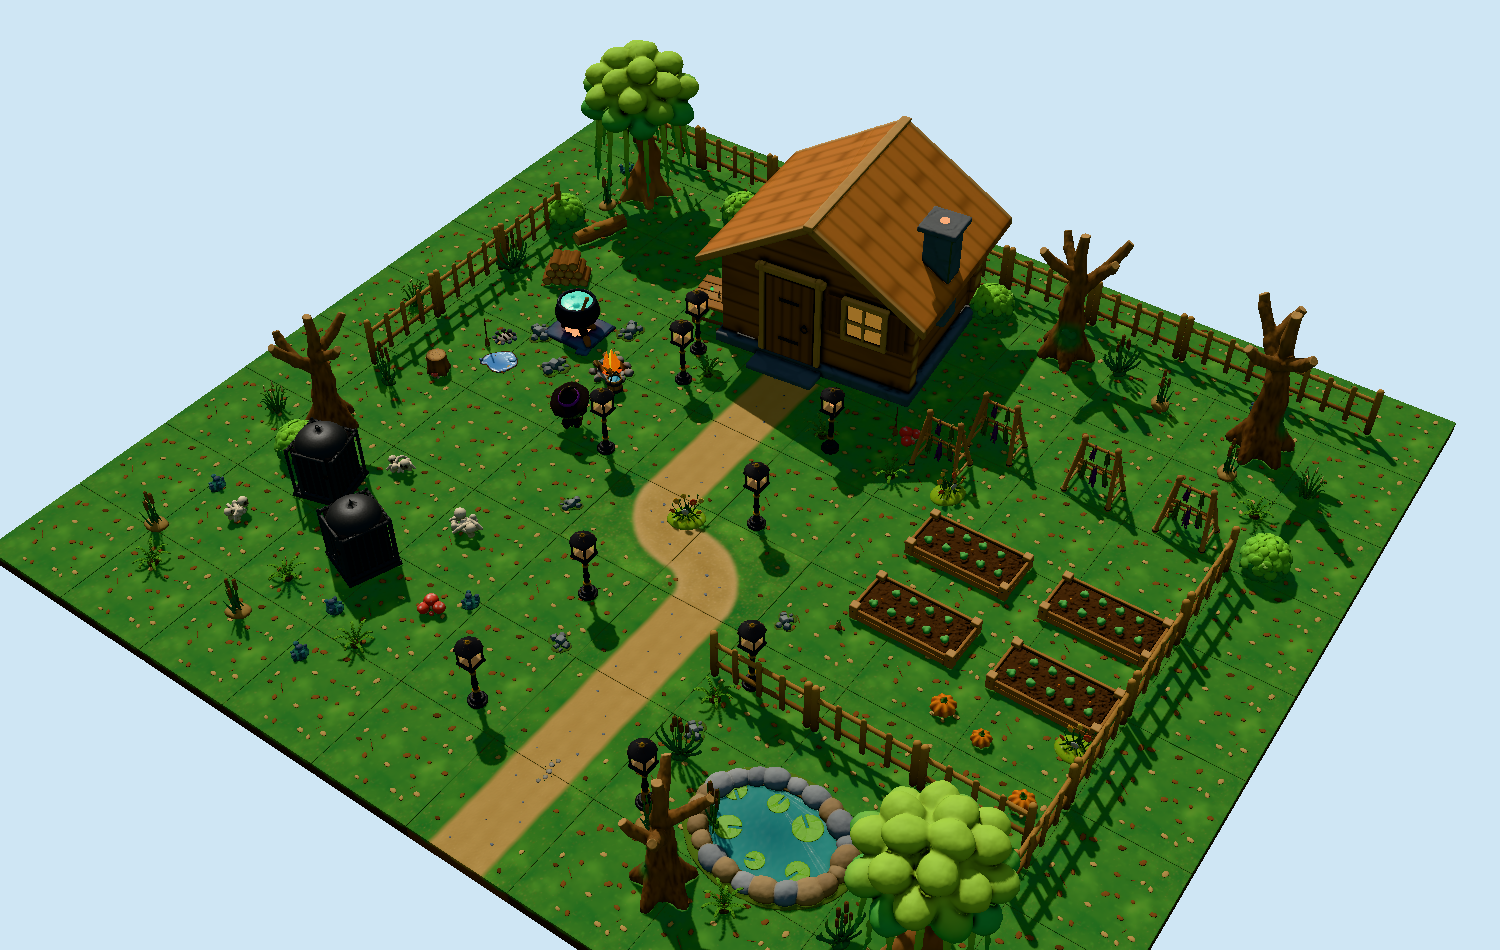
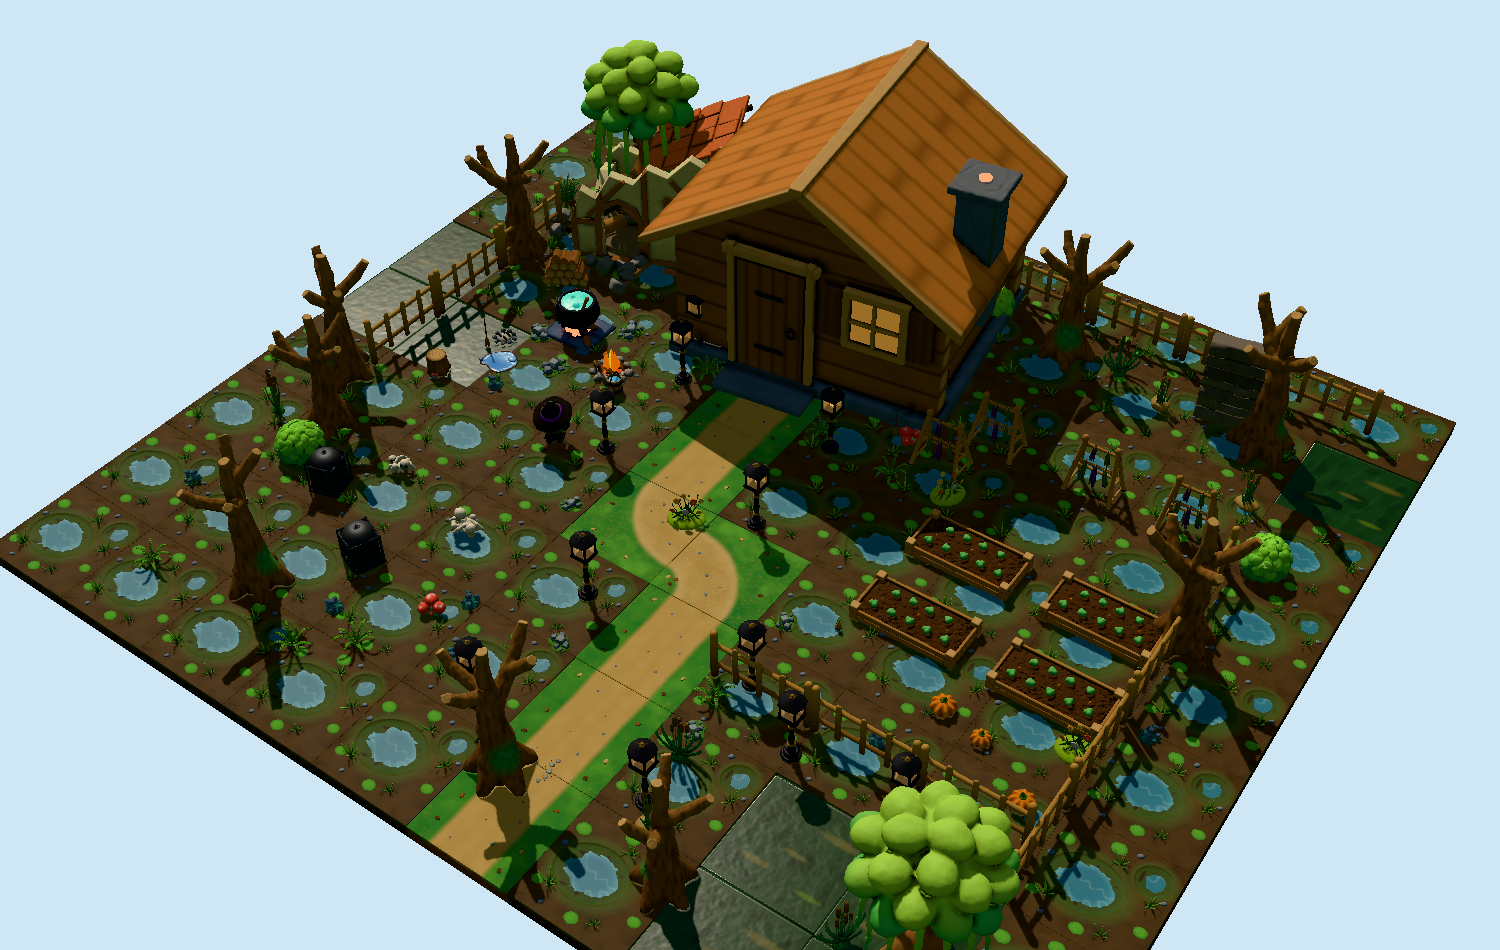
feat(maps): witch-hut map at 7.0

diff --git a/scenes/maps/witch-hut.ts b/scenes/maps/witch-hut.ts
@@ -2,97 +2,101 @@
 import type { Place } from '../chibi-quest.js';
 export function places(): Place[] {
   return [
-  { asset: 'forest-ground', at: [-9, 0, -8] },
-  { asset: 'forest-ground', at: [-9, 0, -6] },
-  { asset: 'forest-ground', at: [-9, 0, -4] },
-  { asset: 'forest-ground', at: [-9, 0, -2] },
-  { asset: 'forest-ground', at: [-9, 0, 0] },
-  { asset: 'forest-ground', at: [-9, 0, 2] },
-  { asset: 'forest-ground', at: [-9, 0, 4] },
-  { asset: 'forest-ground', at: [-9, 0, 6] },
-  { asset: 'forest-ground', at: [-9, 0, 8] },
-  { asset: 'forest-ground', at: [-7, 0, -8] },
-  { asset: 'forest-ground', at: [-7, 0, -6] },
-  { asset: 'forest-ground', at: [-7, 0, -4] },
-  { asset: 'forest-ground', at: [-7, 0, -2] },
-  { asset: 'forest-ground', at: [-7, 0, 0] },
-  { asset: 'forest-ground', at: [-7, 0, 2] },
-  { asset: 'forest-ground', at: [-7, 0, 4] },
-  { asset: 'forest-ground', at: [-7, 0, 6] },
-  { asset: 'forest-ground', at: [-7, 0, 8] },
-  { asset: 'forest-ground', at: [-5, 0, -8] },
-  { asset: 'forest-ground', at: [-5, 0, -6] },
-  { asset: 'forest-ground', at: [-5, 0, -4] },
-  { asset: 'forest-ground', at: [-5, 0, -2] },
-  { asset: 'forest-ground', at: [-5, 0, 0] },
-  { asset: 'forest-ground', at: [-5, 0, 2] },
-  { asset: 'forest-ground', at: [-5, 0, 4] },
-  { asset: 'forest-ground', at: [-5, 0, 6] },
-  { asset: 'forest-ground', at: [-5, 0, 8] },
-  { asset: 'forest-ground', at: [-3, 0, -8] },
-  { asset: 'forest-ground', at: [-3, 0, -6] },
-  { asset: 'forest-ground', at: [-3, 0, -4] },
-  { asset: 'forest-ground', at: [-3, 0, -2] },
-  { asset: 'forest-ground', at: [-3, 0, 0] },
-  { asset: 'forest-ground', at: [-3, 0, 2] },
-  { asset: 'forest-ground', at: [-3, 0, 4] },
-  { asset: 'forest-ground', at: [-3, 0, 6] },
-  { asset: 'forest-ground', at: [-3, 0, 8] },
-  { asset: 'forest-ground', at: [-1, 0, -8] },
-  { asset: 'forest-ground', at: [-1, 0, -6] },
-  { asset: 'forest-ground', at: [-1, 0, -4] },
+  { asset: 'marsh-ground', at: [-9, 0, -8] },
+  { asset: 'marsh-ground', at: [-9, 0, -6] },
+  { asset: 'marsh-ground', at: [-9, 0, -4] },
+  { asset: 'sewer-water', at: [-9, 0, -2] },
+  { asset: 'sewer-water', at: [-9, 0, 0] },
+  { asset: 'marsh-ground', at: [-9, 0, 2] },
+  { asset: 'marsh-ground', at: [-9, 0, 4] },
+  { asset: 'marsh-ground', at: [-9, 0, 6] },
+  { asset: 'marsh-ground', at: [-9, 0, 8] },
+  { asset: 'marsh-ground', at: [-7, 0, -8] },
+  { asset: 'marsh-ground', at: [-7, 0, -6] },
+  { asset: 'marsh-ground', at: [-7, 0, -4] },
+  { asset: 'marsh-ground', at: [-7, 0, -2] },
+  { asset: 'sewer-water', at: [-7, 0, 0] },
+  { asset: 'marsh-ground', at: [-7, 0, 2] },
+  { asset: 'marsh-ground', at: [-7, 0, 4] },
+  { asset: 'marsh-ground', at: [-7, 0, 6] },
+  { asset: 'marsh-ground', at: [-7, 0, 8] },
+  { asset: 'marsh-ground', at: [-5, 0, -8] },
+  { asset: 'marsh-ground', at: [-5, 0, -6] },
+  { asset: 'marsh-ground', at: [-5, 0, -4] },
+  { asset: 'marsh-ground', at: [-5, 0, -2] },
+  { asset: 'marsh-ground', at: [-5, 0, 0] },
+  { asset: 'marsh-ground', at: [-5, 0, 2] },
+  { asset: 'marsh-ground', at: [-5, 0, 4] },
+  { asset: 'marsh-ground', at: [-5, 0, 6] },
+  { asset: 'marsh-ground', at: [-5, 0, 8] },
+  { asset: 'marsh-ground', at: [-3, 0, -8] },
+  { asset: 'marsh-ground', at: [-3, 0, -6] },
+  { asset: 'marsh-ground', at: [-3, 0, -4] },
+  { asset: 'marsh-ground', at: [-3, 0, -2] },
+  { asset: 'marsh-ground', at: [-3, 0, 0] },
+  { asset: 'marsh-ground', at: [-3, 0, 2] },
+  { asset: 'marsh-ground', at: [-3, 0, 4] },
+  { asset: 'marsh-ground', at: [-3, 0, 6] },
+  { asset: 'marsh-ground', at: [-3, 0, 8] },
+  { asset: 'marsh-ground', at: [-1, 0, -8] },
+  { asset: 'marsh-ground', at: [-1, 0, -6] },
+  { asset: 'marsh-ground', at: [-1, 0, -4] },
   { asset: 'footpath-straight', at: [-1, 0, -2] },
   { asset: 'footpath-straight', at: [-1, 0, 0] },
   { asset: 'footpath-corner', at: [-1, 0, 2] },
-  { asset: 'forest-ground', at: [-1, 0, 4] },
-  { asset: 'forest-ground', at: [-1, 0, 6] },
-  { asset: 'forest-ground', at: [-1, 0, 8] },
-  { asset: 'forest-ground', at: [1, 0, -8] },
-  { asset: 'forest-ground', at: [1, 0, -6] },
-  { asset: 'forest-ground', at: [1, 0, -4] },
-  { asset: 'forest-ground', at: [1, 0, -2] },
-  { asset: 'forest-ground', at: [1, 0, 0] },
+  { asset: 'marsh-ground', at: [-1, 0, 4] },
+  { asset: 'marsh-ground', at: [-1, 0, 6] },
+  { asset: 'marsh-ground', at: [-1, 0, 8] },
+  { asset: 'marsh-ground', at: [1, 0, -8] },
+  { asset: 'marsh-ground', at: [1, 0, -6] },
+  { asset: 'marsh-ground', at: [1, 0, -4] },
+  { asset: 'marsh-ground', at: [1, 0, -2] },
+  { asset: 'marsh-ground', at: [1, 0, 0] },
   { asset: 'footpath-corner', at: [1, 0, 2], yaw: 180 },
   { asset: 'footpath-straight', at: [1, 0, 4] },
   { asset: 'footpath-straight', at: [1, 0, 6] },
   { asset: 'footpath-straight', at: [1, 0, 8] },
-  { asset: 'forest-ground', at: [3, 0, -8] },
-  { asset: 'forest-ground', at: [3, 0, -6] },
-  { asset: 'forest-ground', at: [3, 0, -4] },
-  { asset: 'forest-ground', at: [3, 0, -2] },
-  { asset: 'forest-ground', at: [3, 0, 0] },
-  { asset: 'forest-ground', at: [3, 0, 2] },
-  { asset: 'forest-ground', at: [3, 0, 4] },
-  { asset: 'forest-ground', at: [3, 0, 6] },
-  { asset: 'forest-ground', at: [3, 0, 8] },
-  { asset: 'forest-ground', at: [5, 0, -8] },
-  { asset: 'forest-ground', at: [5, 0, -6] },
-  { asset: 'forest-ground', at: [5, 0, -4] },
-  { asset: 'forest-ground', at: [5, 0, -2] },
-  { asset: 'forest-ground', at: [5, 0, 0] },
-  { asset: 'forest-ground', at: [5, 0, 2] },
-  { asset: 'forest-ground', at: [5, 0, 4] },
-  { asset: 'forest-ground', at: [5, 0, 6] },
-  { asset: 'forest-ground', at: [5, 0, 8] },
-  { asset: 'forest-ground', at: [7, 0, -8] },
-  { asset: 'forest-ground', at: [7, 0, -6] },
-  { asset: 'forest-ground', at: [7, 0, -4] },
-  { asset: 'forest-ground', at: [7, 0, -2] },
-  { asset: 'forest-ground', at: [7, 0, 0] },
-  { asset: 'forest-ground', at: [7, 0, 2] },
-  { asset: 'forest-ground', at: [7, 0, 4] },
-  { asset: 'forest-ground', at: [7, 0, 6] },
-  { asset: 'forest-ground', at: [7, 0, 8] },
-  { asset: 'forest-ground', at: [9, 0, -8] },
-  { asset: 'forest-ground', at: [9, 0, -6] },
-  { asset: 'forest-ground', at: [9, 0, -4] },
-  { asset: 'forest-ground', at: [9, 0, -2] },
-  { asset: 'forest-ground', at: [9, 0, 0] },
-  { asset: 'forest-ground', at: [9, 0, 2] },
-  { asset: 'forest-ground', at: [9, 0, 4] },
-  { asset: 'forest-ground', at: [9, 0, 6] },
-  { asset: 'forest-ground', at: [9, 0, 8] },
-  { asset: 'cabin', at: [-1, 0, -5], yaw: 6, scale: 1.3 },
+  { asset: 'marsh-ground', at: [3, 0, -8] },
+  { asset: 'marsh-ground', at: [3, 0, -6] },
+  { asset: 'marsh-ground', at: [3, 0, -4] },
+  { asset: 'marsh-ground', at: [3, 0, -2] },
+  { asset: 'marsh-ground', at: [3, 0, 0] },
+  { asset: 'marsh-ground', at: [3, 0, 2] },
+  { asset: 'marsh-ground', at: [3, 0, 4] },
+  { asset: 'marsh-ground', at: [3, 0, 6] },
+  { asset: 'marsh-ground', at: [3, 0, 8] },
+  { asset: 'marsh-ground', at: [5, 0, -8] },
+  { asset: 'marsh-ground', at: [5, 0, -6] },
+  { asset: 'marsh-ground', at: [5, 0, -4] },
+  { asset: 'marsh-ground', at: [5, 0, -2] },
+  { asset: 'marsh-ground', at: [5, 0, 0] },
+  { asset: 'marsh-ground', at: [5, 0, 2] },
+  { asset: 'marsh-ground', at: [5, 0, 4] },
+  { asset: 'sewer-water', at: [5, 0, 6] },
+  { asset: 'sewer-water', at: [5, 0, 8] },
+  { asset: 'marsh-ground', at: [7, 0, -8] },
+  { asset: 'marsh-ground', at: [7, 0, -6] },
+  { asset: 'marsh-ground', at: [7, 0, -4] },
+  { asset: 'marsh-ground', at: [7, 0, -2] },
+  { asset: 'marsh-ground', at: [7, 0, 0] },
+  { asset: 'marsh-ground', at: [7, 0, 2] },
+  { asset: 'marsh-ground', at: [7, 0, 4] },
+  { asset: 'sewer-water', at: [7, 0, 6] },
+  { asset: 'sewer-water', at: [7, 0, 8] },
+  { asset: 'marsh-ground', at: [9, 0, -8] },
+  { asset: 'sewer-water', at: [9, 0, -6] },
+  { asset: 'marsh-ground', at: [9, 0, -4] },
+  { asset: 'marsh-ground', at: [9, 0, -2] },
+  { asset: 'marsh-ground', at: [9, 0, 0] },
+  { asset: 'marsh-ground', at: [9, 0, 2] },
+  { asset: 'marsh-ground', at: [9, 0, 4] },
+  { asset: 'marsh-ground', at: [9, 0, 6] },
+  { asset: 'marsh-ground', at: [9, 0, 8] },
+  { asset: 'cabin', at: [-1, 0, -5], yaw: 8, scale: 1.75 },
+  { asset: 'ruined-house', at: [-6.2, 0, -5.6], yaw: 25, scale: 0.8 },
+  { asset: 'rock-wall', at: [6.5, 0, -6.6], yaw: 10, scale: 0.7 },
+  { asset: 'hanging-cage', at: [1.8, 0, -3.6], scale: 0.8 },
+  { asset: 'bone-pile', at: [1.4, 0, -3], yaw: 30, scale: 0.8 },
   { asset: 'witch-broom', at: [1.5, 0, -2.6], yaw: 20 },
   { asset: 'lantern', at: [-3, 0, -2.5] },
   { asset: 'herb-drying-rack', at: [2.6, 0, -2.4] },
@@ -113,7 +117,7 @@ export function places(): Place[] {
   { asset: 'firewood', at: [-6.6, 0, -2.8], yaw: 30 },
   { asset: 'bucket', at: [-3.6, 0, -0.6], yaw: 100 },
   { asset: 'barrel', at: [-2.5, 0, -3.9], yaw: 20 },
-  { asset: 'witch', at: [-3.6, 0, 0.7], yaw: 220 },
+  { asset: 'witch', at: [-3.6, 0, 1.2], yaw: 220 },
   { asset: 'witch-broom', at: [-6.5, 0, -0.2], yaw: 80 },
   { asset: 'stump', at: [-6.8, 0, 0.9] },
   { asset: 'log', at: [-7, 0, -4.4], yaw: 70 },
@@ -137,8 +141,8 @@ export function places(): Place[] {
   { asset: 'fence', at: [7.95, 0, 0], yaw: 90 },
   { asset: 'fence', at: [7.95, 0, 2], yaw: 90 },
   { asset: 'fence', at: [7.95, 0, 3.94], yaw: 90 },
-  { asset: 'cage', at: [-6.2, 0, 4.4], yaw: 15 },
-  { asset: 'cage', at: [-4.4, 0, 5.4], yaw: 340 },
+  { asset: 'cage', at: [-6.2, 0, 4.4], yaw: 15, scale: 0.6 },
+  { asset: 'cage', at: [-4.4, 0, 5.4], yaw: 340, scale: 0.6 },
   { asset: 'bone-pile', at: [-5.4, 0, 3.4], yaw: 40 },
   { asset: 'bone-pile', at: [-3.4, 0, 3.9], yaw: 200, scale: 1.2 },
   { asset: 'bone-pile', at: [-7, 0, 5.9], yaw: 120 },
@@ -154,7 +158,8 @@ export function places(): Place[] {
   { asset: 'lantern', at: [0.7, 0, 0.8] },
   { asset: 'lantern', at: [-2.7, 0, -1.6] },
   { asset: 'lantern', at: [0.7, 0, -1.6] },
-  { asset: 'pond', at: [4.6, 0, 6], scale: 1.1 },
+  { asset: 'lantern', at: [4, 0, 4.6] },
+  { asset: 'lantern', at: [6, 0, 4.6] },
   { asset: 'reeds', at: [3, 0, 6.9], yaw: 20 },
   { asset: 'reeds', at: [6.2, 0, 5.2], yaw: 100 },
   { asset: 'cattails', at: [6.4, 0, 6.9], yaw: 60 },
@@ -166,6 +171,16 @@ export function places(): Place[] {
   { asset: 'dead-tree', at: [7.2, 0, -6.2], yaw: 300, scale: 1.1 },
   { asset: 'dead-tree', at: [3.8, 0, 7.6], yaw: 100, scale: 0.9 },
   { asset: 'dead-tree', at: [-2, 0, -6.7], yaw: 30, scale: 0.8 },
+  { asset: 'dead-tree', at: [-8, 0, -3], yaw: 40, scale: 1 },
+  { asset: 'dead-tree', at: [-8.2, 0, 2], yaw: 130, scale: 1 },
+  { asset: 'dead-tree', at: [0.5, 0, 7.4], yaw: 250, scale: 1 },
+  { asset: 'dead-tree', at: [8, 0, -1], yaw: 10, scale: 1 },
+  { asset: 'dead-tree', at: [-5.5, 0, 6.8], yaw: 300, scale: 1 },
+  { asset: 'mushroom-cluster', at: [-5.6, 0, 0.6], yaw: -224 },
+  { asset: 'mushroom-cluster', at: [-1.6, 0, 6.2], yaw: -64 },
+  { asset: 'mushroom-cluster', at: [1.6, 0, -5], yaw: 64 },
+  { asset: 'mushroom-cluster', at: [5, 0, 3.6], yaw: 200 },
+  { asset: 'mushroom-cluster', at: [-0.6, 0, -3.4], yaw: -24 },
   { asset: 'bush', at: [1.2, 0, -6.8], yaw: 40 },
   { asset: 'fern', at: [2, 0, -1.6], yaw: 40 },
   { asset: 'fern', at: [-2.4, 0, -2], yaw: 120 },
@@ -187,29 +202,17 @@ export function places(): Place[] {
   { asset: 'fence', at: [-7.95, 0, -1.36], yaw: 90 },
   { asset: 'fence', at: [-7.95, 0, 0.58], yaw: 90 },
   { asset: 'fern', at: [-7.32, 0, 7.56], yaw: 75 },
-  { asset: 'reeds', at: [-5.27, 0, 7.49], yaw: 21 },
+  { asset: 'reeds', at: [-8.08, 0, -6.51], yaw: 242 },
   { asset: 'cattails', at: [4.15, 0, -6.63], yaw: 222 },
   { asset: 'bush', at: [-7.23, 0, 4.12], yaw: 72 },
-  { asset: 'tall-grass', at: [8.43, 0, -5.47], yaw: 93 },
-  { asset: 'mushroom-cluster', at: [-8.06, 0, -6.67] },
-  { asset: 'fern', at: [4.73, 0, 7.4], yaw: 223 },
-  { asset: 'reeds', at: [-8, 0, 6.91], yaw: 4 },
-  { asset: 'cattails', at: [-7.72, 0, -2.4], yaw: 75 },
-  { asset: 'bush', at: [-7.9, 0, -4.29], yaw: 241 },
-  { asset: 'tall-grass', at: [8.35, 0, 7.07], yaw: 233 },
-  { asset: 'mushroom-cluster', at: [-3.76, 0, 7.54], yaw: 310 },
-  { asset: 'fern', at: [-5.16, 0, 6.47], yaw: 348 },
-  { asset: 'reeds', at: [-7.56, 0, -5.35], yaw: 265 },
-  { asset: 'cattails', at: [-7.35, 0, 1.73], yaw: 161 },
-  { asset: 'bush', at: [-4.8, 0, -6.55], yaw: 257 },
-  { asset: 'tall-grass', at: [-8.49, 0, 3.54], yaw: 145 },
-  { asset: 'mushroom-cluster', at: [-7.89, 0, 5.6], yaw: 309 },
-  { asset: 'fern', at: [7.85, 0, -4.46], yaw: 341 },
-  { asset: 'reeds', at: [7.01, 0, -5.19], yaw: 104 },
-  { asset: 'cattails', at: [3.75, 0, 6.32], yaw: 136 },
+  { asset: 'tall-grass', at: [-8.43, 0, -5.03], yaw: 114 },
+  { asset: 'mushroom-cluster', at: [-8.37, 0, 5.75], yaw: 337 },
+  { asset: 'fern', at: [-3.94, 0, 7.51], yaw: 228 },
+  { asset: 'reeds', at: [7.62, 0, -4.65], yaw: 345 },
+  { asset: 'cattails', at: [-8.49, 0, 3.54], yaw: 145 },
   { asset: 'bush', at: [8.47, 0, -3.31], yaw: 282 },
-  { asset: 'tall-grass', at: [-8.6, 0, -0.36], yaw: 345 },
-  { asset: 'mushroom-cluster', at: [6.8, 0, -7.19], yaw: 219 },
+  { asset: 'tall-grass', at: [-7.5, 0, -5.3], yaw: 316 },
+  { asset: 'mushroom-cluster', at: [8.42, 0, 1.1], yaw: 52 },
   { asset: 'fern', at: [-3.13, 0, 6.87], yaw: 177 },
   { asset: 'reeds', at: [5.19, 0, -6.25], yaw: 115 },
   { asset: 'rock-cluster', at: [-0.4, 0, 4.9], yaw: -20, scale: 0.4 },

diff --git a/docs/map-mockups/witch-hut.md b/docs/map-mockups/witch-hut.md
@@ -9,13 +9,18 @@ GENERATED by `scripts/design-witch-hut.mjs`. 10 x 9 marsh-ground tiles of 2 m (2
 - South-west: cage and bone corner with a dead tree and mushrooms.
 - South-east: bog with pond, reeds, willow. Fence on north and west rims, dead trees at the edge.
 
-## Tally (214 pieces)
-- forest-ground: 83
+## Tally (217 pieces)
+- marsh-ground: 75
+- sewer-water: 8
 - footpath-straight: 5
 - footpath-corner: 2
 - cabin: 1
+- ruined-house: 1
+- rock-wall: 1
+- hanging-cage: 1
+- bone-pile: 4
 - witch-broom: 2
-- lantern: 9
+- lantern: 11
 - herb-drying-rack: 5
 - cauldron: 1
 - campfire: 1
@@ -38,15 +43,13 @@ GENERATED by `scripts/design-witch-hut.mjs`. 10 x 9 marsh-ground tiles of 2 m (2
 - wildflowers: 3
 - fence: 19
 - cage: 2
-- bone-pile: 3
-- dead-tree: 5
+- dead-tree: 10
 - red-mushroom: 3
-- mushroom-cluster: 6
-- pond: 1
-- reeds: 7
-- cattails: 6
+- mushroom-cluster: 9
+- reeds: 5
+- cattails: 4
 - stepping-stone: 1
 - willow-tree: 2
-- bush: 5
-- fern: 9
-- tall-grass: 4
+- bush: 3
+- fern: 7
+- tall-grass: 2
